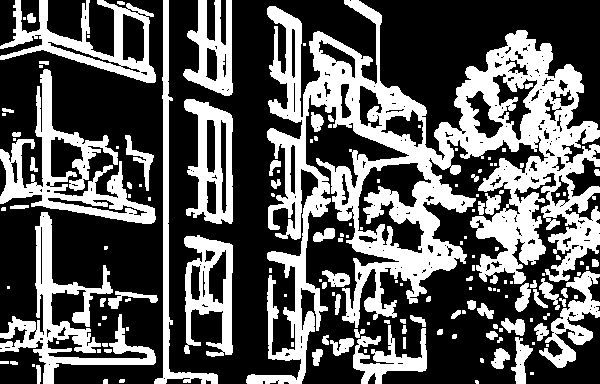
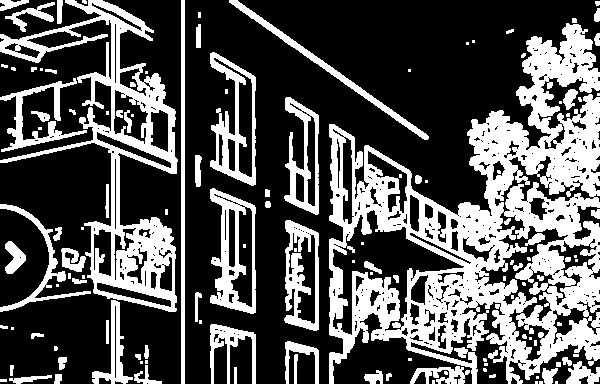
Builtly Render: produkteiers høyoppløste sammenligningsbilder inn
Produkteier sendte fem sammenligningsbilder «IFC-modell | Ferdig
visualisering» i 1417–1536 px (13. sep 2026) — de erstatter utsnittet fra
det 443 px brede skjermbildet.

- render/sammenlign.jpg (bilde 1, frontalt) bærer produktkortet på
  software.html og og/render.png; render/sammenlign-stor.jpg (bilde 2, mer
  omgivelser) bærer § 02 på produktsiden. Begge 1200 px brede, skåret
  INNENFOR den innbakte «Se eksempel»-knappen og bildeteksten — en knapp i
  et bilde er en falsk dør; chipene og skillehåndtaket står.
- AI-flisene (render/ai-grunn/-kant/-resultat) er skåret av den rendrede
  halvdelen i bilde 1 i full oppløsning; kantkartet er fortsatt produktets
  eget (visualisering.troskap.kantkart_png).
- width/height-attributtene følger de nye målene (1200×764 / 1200×768);
  ingen tekst- eller i18n-endringer.

Målt i Chromium: 0 px overflyt på 1440 og 390 for begge sidene; § 02,
bildeveien, kortet (238 px høyt på desktop) og OG-bildet kontrollert.

Claude-Session: https://claude.ai/code/session_01FDMDafH1uvsRKmnrRnoeYf

diff --git a/software.html b/software.html
@@ -339,7 +339,7 @@ footer{background:var(--bg-soft);padding:64px 0 28px;color:var(--ink-soft);borde
 <div class="foot"><span data-i18n="sw.prod.ms.l">Se Mulighetsstudien</span><span class="go">→</span></div>
 </a>
 <a href="/render.html" class="card card-render rv">
-<div class="cr-bilde"><img src="/render/sammenlign.jpg" width="882" height="450" alt="Samme boligbygg som IFC-modell til venstre og som ferdig rendering til høyre — illustrasjon" data-i18n-attr-alt="rd.s01.alt" loading="lazy" decoding="async" /></div>
+<div class="cr-bilde"><img src="/render/sammenlign.jpg" width="1200" height="764" alt="Samme boligbygg som IFC-modell til venstre og som ferdig rendering til høyre — illustrasjon" data-i18n-attr-alt="rd.s01.alt" loading="lazy" decoding="async" /></div>
 <div class="cr-tekst">
 <div class="head"><span>portal.builtly.ai · render</span><span class="pf-new" data-i18n="sw.prod.render.tag">Nytt</span></div>
 <h3 data-i18n="sw.prod.render.h">Builtly Render</h3>

diff --git a/render.html b/render.html
@@ -436,7 +436,7 @@ footer{background:var(--bg-soft);padding:64px 0 28px;color:var(--ink-soft);borde
 <h2 class="dpy-3 rv" data-i18n="rd.s01h2">Samme modell. Helt nye muligheter.</h2>
 <div class="rd-split">
 <figure class="sammenlign rv">
-<img src="/render/sammenlign.jpg" width="882" height="450" alt="Samme boligbygg som IFC-modell til venstre og som ferdig rendering til høyre — illustrasjon" data-i18n-attr-alt="rd.s01.alt" loading="lazy" decoding="async" />
+<img src="/render/sammenlign-stor.jpg" width="1200" height="768" alt="Samme boligbygg som IFC-modell til venstre og som ferdig rendering til høyre — illustrasjon" data-i18n-attr-alt="rd.s01.alt" loading="lazy" decoding="async" />
 <figcaption data-i18n="rd.s01.cap">Illustrasjon: IFC-modellen til venstre, Builtly Render til høyre — samme geometri, samme utsnitt.</figcaption>
 </figure>
 <div class="rv">
